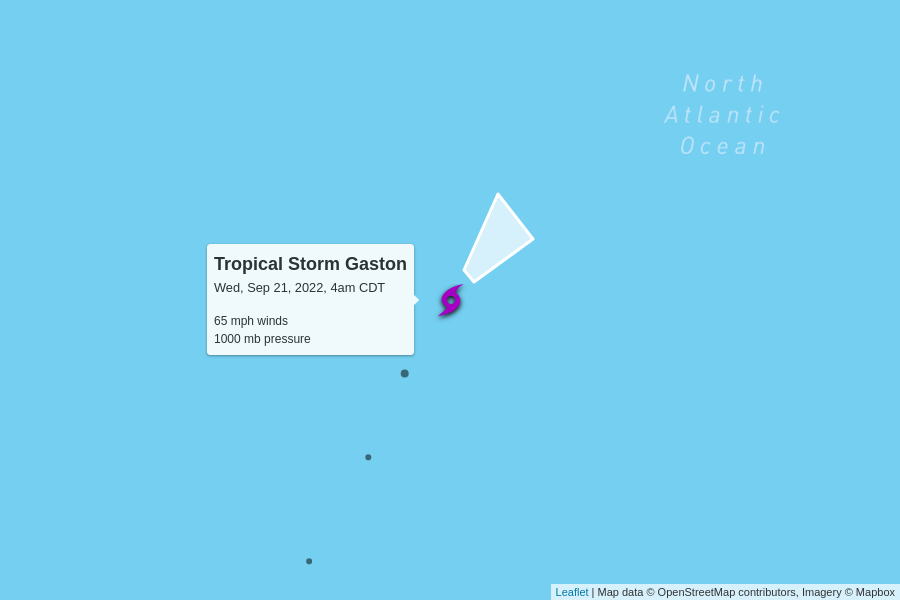
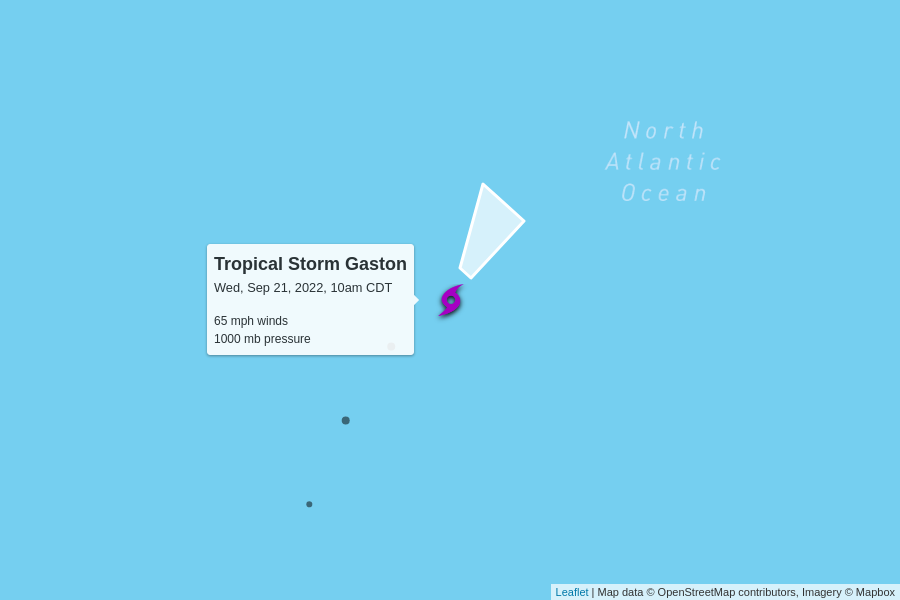
automatic update

diff --git a/docs/index.html b/docs/index.html
@@ -100,7 +100,7 @@
         <td colspan="6" class="storm category-4" >
           <h2>
             Hurricane Fiona - Category 4
-            <p class="updated">last updated <span data-time>2022-09-21T12:00:00.000Z</span></p>
+            <p class="updated">last updated <span data-time>2022-09-21T15:00:00.000Z</span></p>
           </h2>
         </td>
       </tr>
@@ -120,7 +120,7 @@
         <td>
           8 mph to the north
           <br/>
-          <span style="display: inline-block; font-size: 1.5em; transform: rotate(360deg);">↑</span>
+          <span style="display: inline-block; font-size: 1.5em; transform: rotate(0deg);">↑</span>
         </td>
         <td><a href="https://raw.githubusercontent.com/mgwalker/atlantic-hurricanes/main/data/csv/AL072022.csv">AL072022.csv</a></td>
         <td><a href="https://www.nhc.noaa.gov/archive/2022/FIONA.shtml?">NHC advisories</a></td>
@@ -144,7 +144,7 @@
         <td colspan="6" class="storm category-0" >
           <h2>
             Tropical Storm Gaston
-            <p class="updated">last updated <span data-time>2022-09-21T09:00:00.000Z</span></p>
+            <p class="updated">last updated <span data-time>2022-09-21T15:00:00.000Z</span></p>
           </h2>
         </td>
       </tr>
@@ -164,7 +164,7 @@
         <td>
           16 mph to the northeast
           <br/>
-          <span style="display: inline-block; font-size: 1.5em; transform: rotate(45deg);">↑</span>
+          <span style="display: inline-block; font-size: 1.5em; transform: rotate(35deg);">↑</span>
         </td>
         <td><a href="https://raw.githubusercontent.com/mgwalker/atlantic-hurricanes/main/data/csv/AL082022.csv">AL082022.csv</a></td>
         <td><a href="https://www.nhc.noaa.gov/archive/2022/GASTON.shtml?">NHC advisories</a></td>
